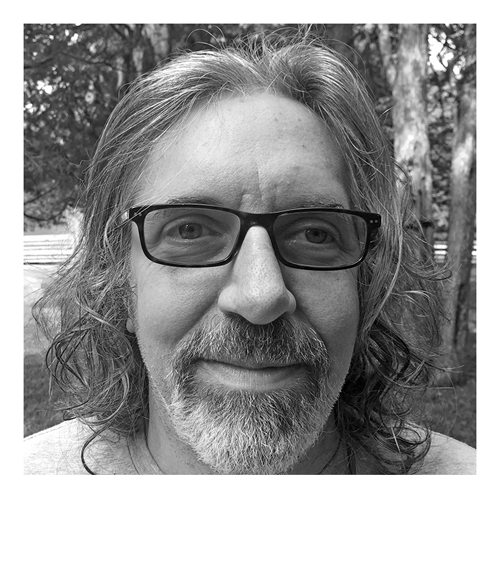
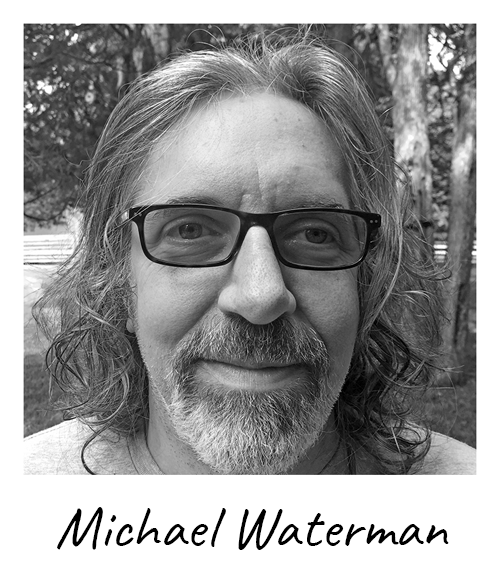
about us page updated and css, dots added as bg pic instead of css made

Changed region(s): [[0.48, 0.8586, 0.9, 0.9506], [0.12, 0.8586, 0.45, 0.9506]]

diff --git a/wds_website/src/Components/aboutus.js b/wds_website/src/Components/aboutus.js
@@ -21,27 +21,21 @@ class aboutus extends Component {
                  </div>
                 </div>  
             <div className="flex-container100 purple">
-                <div className="dots">
-                    <div className="flex-container50 content-center marginleft50"> <img src={mike} alt="mike"/> 
-                        <div className="content-center marginleft30"> 
+                <div className="dots purpledots">
+                    <div className="flex-container50 content-top marginleft50"> 
+                        <div className="content-top marginleft30 margintop50"> 
                             <div className="content-text">
-                                <div className="content-header">
-                                    <div className="title">Michael Waterman</div>
-                                    <p> fjsi;fu fisu foi;srlf as;ilfj slfj slkfj slkfj slkfj salf ja;lskfj lskrg iurgkj dfvoirugselkrhgieru giier ger gordhg v;ekr hgerg rgh hoeirg ivoeirgjeurgh oeirgh oeirg heroih  </p>
-                            
+                                <div className="content-header textblock lightpurple"><img src={mike} alt="mike"/> 
+                                        <p> fjsi;fu fisu foi;srlf as;ilfj slfj slkfj slkfj slkfj salf ja;lskfj lskrg iurgkj dfvoirugselkrhgieru giier ger gordhg v;ekr hgerg rgh hoeirg ivoeirgjeurgh oeirgh oeirg heroih  </p>
                                 </div>
                             </div>
                         </div>
                     </div>
-                    <div className="flex-container50 content-center marginleft50"> <img src={terri} alt="terri"/> 
-                        <div className="content-center marginleft30"> 
+                    <div className="flex-container50 content-top marginleft50"> 
+                        <div className="content-top marginleft30 margintop50"> 
                             <div className="content-text">
-                                <div className="content-header">
-                                    <div className="title">Terri Waterman</div>
-                                    <p> fjsi;fu fisu foi;srlf as;ilfj slfj slkfj slkfj slkfj salf ja;lskfj lskrg iurgkj dfvoirugselkrhgieru giier ger gordhg v;ekr hgerg rgh hoeirg ivoeirgjeurgh oeirgh oeirg heroih  </p>
-                                    <p> fjsi;fu fisu foi;srlf as;ilfj slfj slkfj slkfj slkfj salf ja;lskfj lskrg iurgkj dfvoirugselkrhgieru giier ger gordhg v;ekr hgerg rgh hoeirg ivoeirgjeurgh oeirgh oeirg heroih  </p>
-                                    <p> fjsi;fu fisu foi;srlf as;ilfj slfj slkfj slkfj slkfj salf ja;lskfj lskrg iurgkj dfvoirugselkrhgieru giier ger gordhg v;ekr hgerg rgh hoeirg ivoeirgjeurgh oeirgh oeirg heroih  </p>
-
+                                <div className="content-header textblock lightpurple"><img src={terri} alt="terri"/> 
+                                        <p> fjsi;fu fisu foi;srlf as;ilfj slfj slkfj slkfj slkfj salf ja;lskfj lskrg iurgkj dfvoirugselkrhgieru giier ger gordhg v;ekr hgerg rgh hoeirg ivoeirgjeurgh oeirgh oeirg heroih  </p>
                                 </div>
                             </div>
                         </div>

diff --git a/wds_website/src/stylesheets/css/App.css b/wds_website/src/stylesheets/css/App.css
@@ -1,4 +1,12 @@
-
+body {
+  display: flex;
+  margin: 0;
+  padding: 0;
+  font-family: -apple-system, BlinkMacSystemFont, "Roboto", "Oxygen", "Ubuntu", "Cantarell", "Fira Sans", "Droid Sans", "Helvetica Neue", sans-serif;
+  -webkit-font-smoothing: antialiased;
+  -moz-osx-font-smoothing: grayscale;
+  line-height: normal !important;
+}
 
 
 .flex-containertop {
@@ -11,12 +19,15 @@
 .flex-container50 {
   display: flex;
   flex-direction: row;
-  justify-content: space-between;
+  justify-content: center;
   
 }
 .flex-container50 img {
   width: 200px;
-  height: auto;
+  height: 235px;
+  min-width: 200px;
+  max-height: 235px;
+  margin-right: 20px;
 }
 
 .header {
@@ -49,9 +60,6 @@
   height: 595x;
   -webkit-clip-path: polygon(0 0%, 100% 0, 50% 100%, 0% 100%);
   clip-path: polygon(0 0%, 100% 0, 50% 100%, 0% 100%);
-  border-right-style: outset;
-  border-right-color: black;
-  border-right-width: 5px;
 }
 
 .mdl-layout__drawer-button {
@@ -62,18 +70,32 @@
   font-family: 'Mouse Memoirs', sans-serif;
   font-size: 62px;
   margin-bottom: 15px;
-  color: #fff
+  color: #fff;
+}
+.heading1 {
+  font-family: 'Roboto', sans-serif;
+  font-size: 22px;
+  margin-bottom: 15px;
+  color: #fff;
 }
 .content-header {
   display: flex;
   width: 100%;
-  flex-direction: column;
 }
 
 .content-text {
   display: flex;
   flex-direction: row;
 }
+.textblock{
+  padding: 20px;
+  border: black 3px solid;
+  width: 70%;
+}
+.align-items-center{
+  align-items: center;
+}
+
 
 .sevices-background-section1 {
   display: flex;
@@ -100,6 +122,13 @@
   align-items: center;
   height: 768px;
 }
+.content-top {
+  display: flex;
+  flex-direction: row;
+  justify-content: center;
+  align-items: flex-start;
+  height: 768px;
+}
 
 
 /*  Colors   */
@@ -109,6 +138,9 @@
 }
 .purple {
   background-color: #78738A;
+}
+.lightpurple{
+  background-color: #b8a9c6;
 }
 .lightgreen {
   background-color: #87A6AB;
@@ -123,12 +155,23 @@
 .white {
   background-color: #fff;
 }
-
+.red{
+  background-color: #DA6154 !important;
+}
 .dots {
+  display: flex;
   width: 100%;
   height: 768px;
   background-position: left top;
[2 lines of base64/hex data omitted]
+}
+.pinkdots{
+  background-image: url(../../images/pinkdots.png);
+
+}
+.purpledots{
+  background-image: url(../../images/purpledots.png);
+
 }
 /*# sourceMappingURL=App.css.map */
 
@@ -139,4 +182,15 @@
 }
 .marginleft50{
   margin-left: 50px;
+}
+.margintop50{
+  margin-top: 50px;
+}
+
+
+/* footer */
+
+footer {
+  background-color: #daa09a !important;
+  color: black !important;
 }

diff --git a/wds_website/src/Components/services.js b/wds_website/src/Components/services.js
@@ -1,5 +1,6 @@
 import React, { Component } from 'react' ;
 import backgroundServices from '../images/enchilada.png';
+import bloatware from '../images/bloatware.gif';
 
 class Services extends Component {
     render () {
@@ -18,13 +19,26 @@ class Services extends Component {
                     </div>
                  </div>
                 </div>  
-            <div className="flex-container100 lightgreen">
-            
-                <div className="logo">
-                    <div className="dots">  
-                        <div className="flex-container50"><img src="../images/bloatware.gif"></img>where's my image</div>
+                <div className="flex-container100 lightgreen">
+                <div className="dots">
+                    <div className="flex-container50 content-top marginleft50"> 
+                        <div className="content-top marginleft30 margintop50"> 
+                            <div className="content-text">
+                                <div className="content-header textblock purple"><img src={bloatware} alt="bloatware"/> 
+                                        </div>
+                            </div>
+                        </div>
                     </div>
-            </div> 
+                    <div className="flex-container50 content-top marginleft50"> 
+                        <div className="content-top marginleft30 margintop50"> 
+                            <div className="content-text">
+                                <div className="content-header  lightgreen">
+                                        <p> fjsi;fu fisu foi;srlf as;ilfj slfj slkfj slkfj slkfj salf ja;lskfj lskrg iurgkj dfvoirugselkrhgieru giier ger gordhg v;ekr hgerg rgh hoeirg ivoeirgjeurgh oeirgh oeirg heroih  </p>
+                                </div>
+                            </div>
+                        </div>
+                    </div>
+                </div> 
             </div>
             <div className="flex-container"> 
                 <div className="flex-container100 lightgreen">

diff --git a/wds_website/src/stylesheets/css/global.css b/wds_website/src/stylesheets/css/global.css
@@ -7,7 +7,7 @@ body {
   font-family: -apple-system, BlinkMacSystemFont, "Roboto", "Oxygen", "Ubuntu", "Cantarell", "Fira Sans", "Droid Sans", "Helvetica Neue", sans-serif;
   -webkit-font-smoothing: antialiased;
   -moz-osx-font-smoothing: grayscale;
-  line-height: none;
+  line-height: normal;
 }
 h1 {
   font-family: 'Mouse Momoirs', sans-serif;
@@ -19,6 +19,7 @@ code {
 .marginleft50{
   margin-left: 50px;
 }
+
 
 
 /*# sourceMappingURL=global.css.map */

diff --git a/wds_website/src/App.js b/wds_website/src/App.js
@@ -44,7 +44,8 @@ class App extends Component {
       </Content>
 
 
-      <Footer size="mega">
+   
+      <Footer className="red">
       <FooterSection type="middle">
           <FooterDropDownSection title="Services">
               <FooterLinkList>
